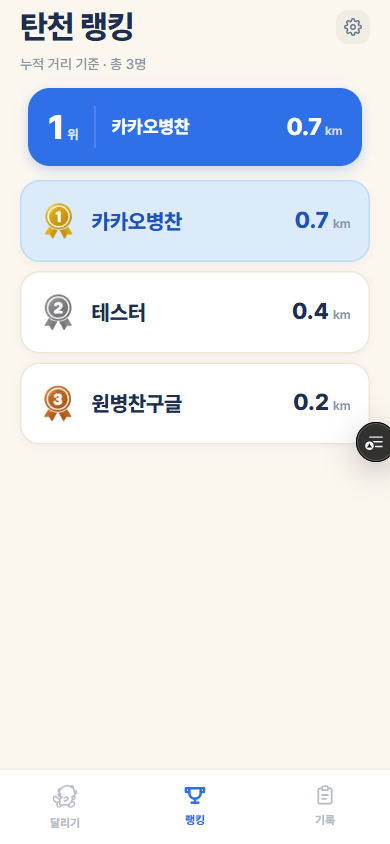
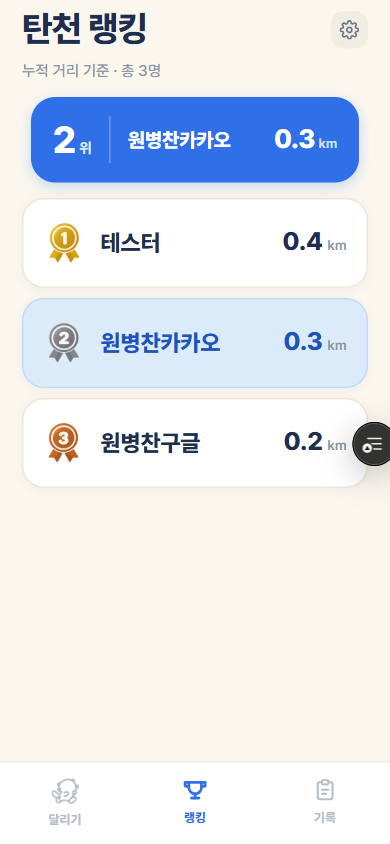
docs: 캡처를 깨끗한 데이터로 다시 찍고 회원탈퇴 화면을 더한다
기록 탭 캡처에 34:50:24 이 개인 최고 기록으로 박혀 있었다. Gate 실측 때
남아 있던 유령 세션(2026-09-19 시작, 34시간 진행 중)을 종료한 결과인데,
발표 자료에 그대로 두기에는 눈에 띈다.

integration 계정을 탈퇴해 러닝 2건을 지우고 재가입한 뒤, 탄천 Ranking Zone
안에서 출발해 밖으로 나가는 러닝 1건만 다시 만들었다.

- 홈 · 러닝 진행 · 결과 · 기록 · 랭킹 5장을 새 데이터로 교체
- 개인 최고 기록이 0.5km · 0:02:47 · 5'05" 로 정리됐다
- 2절 설명을 고쳤다 — 이전에는 러닝 진행과 결과가 다른 세션이었는데
  이제 세 장이 같은 러닝이다(도중 0.49km → 종료 0.55km)
- 회원탈퇴 확인 모달을 6절에 더했다. 삭제 범위 7항목이 화면에 있어
  F13 · P13 의 근거가 된다

탈퇴는 실제로 실행했고 로그인 화면 복귀까지 확인했다.

Refs #208 · Refs #209

diff --git a/README.md b/README.md
@@ -150,7 +150,7 @@ flowchart LR
 
 <!-- TODO(#209): 피그마 · Claude Design 캡처를 docs/images/ 에 넣고 빈 칸을 채운다 -->
 
-실제 구현은 integration 배포에서 찍었다. 지도는 NAVER Maps 실제 타일이다. 러닝은 **탄천 Ranking Zone 안에서 출발해 Zone 밖으로 나가도록** 만들어, 총 거리와 탄천 인정 거리가 갈리는 장면을 담았다 — 러닝 진행은 0.50km 중 0.34km 인정, 결과는 0.44km 중 0.34km 인정이다(서로 다른 세션이다).
+실제 구현은 integration 배포에서 찍었다. 지도는 NAVER Maps 실제 타일이다. 러닝은 **탄천 Ranking Zone 안에서 출발해 Zone 밖으로 나가도록** 만들어, 총 거리와 탄천 인정 거리가 갈리는 장면을 담았다 — 세 장 모두 같은 러닝이고, 러닝 진행은 달리는 도중(0.49km 중 0.34km 인정) · 결과는 종료 시점(0.55km 중 0.34km 인정)이다.
 
 | 화면 | 피그마 | Claude Design | 실제 구현 |
 |---|---|---|---|
@@ -418,11 +418,13 @@ gitGraph
 
 ### 화면
 
-| 로그인 | 랭킹 탭 | 기록 탭 |
-|---|---|---|
-| ![로그인](docs/images/real-login.png) | ![랭킹](docs/images/real-ranking.png) | ![기록](docs/images/real-records.png) |
+| 로그인 | 랭킹 탭 | 기록 탭 | 회원탈퇴 |
+|---|---|---|---|
+| ![로그인](docs/images/real-login.png) | ![랭킹](docs/images/real-ranking.png) | ![기록](docs/images/real-records.png) | ![회원탈퇴](docs/images/real-withdraw-confirm.png) |
 
-랭킹은 본인 줄을 강조하고(F5), 기록 탭은 누적 2종·개인 최고 기록 3종·세션 목록을 함께 보여 준다(F7). 목록의 `탄천 외` 배지는 Zone 밖에서만 달려 랭킹에 반영되지 않은 세션이다.
+랭킹은 본인 줄을 강조하고(F5), 기록 탭은 누적 2종·개인 최고 기록 3종·세션 목록을 함께 보여 준다(F7).
+
+회원탈퇴 화면은 **무엇이 지워지는지 7항목을 먼저 보여 주고** 한 번 더 확인을 받는다(F13·P13). 이 캡처들은 실제로 탈퇴를 실행해 얻은 것이다 — 계정·러닝·경로·랭킹 반영이 모두 사라지고 로그인 화면으로 돌아가는 것까지 확인했다.
 
 ### 현재 검증 상태
 
